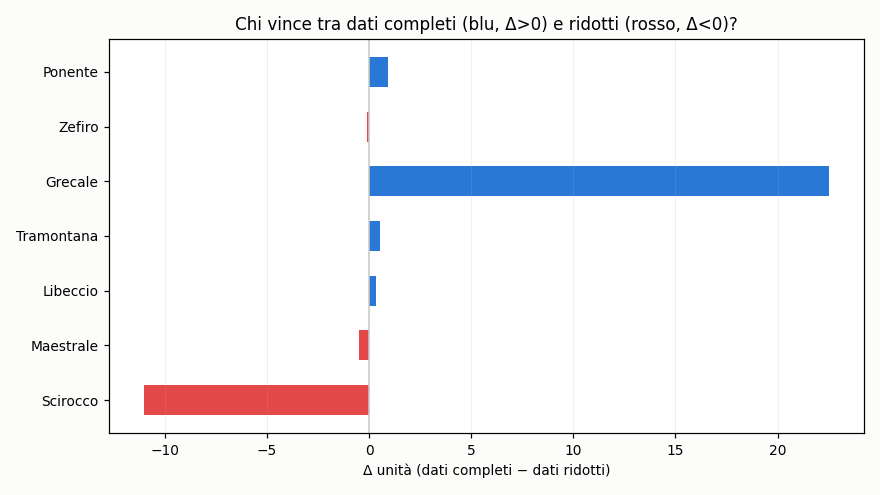
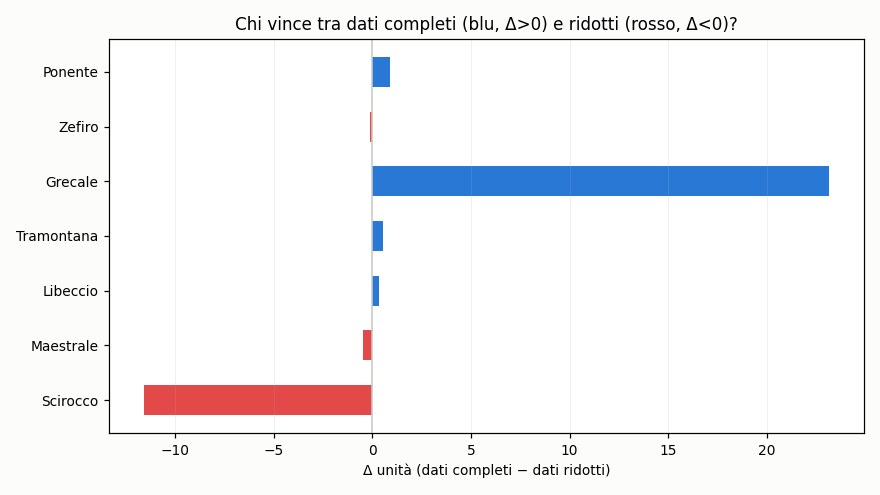
aggiornamento 2026-07-28 12:41 UTC

diff --git a/README.md b/README.md
@@ -37,9 +37,9 @@ scala in unità). Non indichiamo quale.
 
 ## Grafici
 
-![Coppie: dati completi vs ridotti](https://raw.githubusercontent.com/Kitem19/ippica-track-record/main/charts/equity_pairs.png?v=6c8a831d)
+![Coppie: dati completi vs ridotti](https://raw.githubusercontent.com/Kitem19/ippica-track-record/main/charts/equity_pairs.png?v=03c3ce81)
 
-![Delta per coppia](https://raw.githubusercontent.com/Kitem19/ippica-track-record/main/charts/coppie_delta.png?v=58f165ba)
+![Delta per coppia](https://raw.githubusercontent.com/Kitem19/ippica-track-record/main/charts/coppie_delta.png?v=db3c4497)
 
 ### Come leggere i grafici
 
@@ -56,11 +56,11 @@ scala in unità). Non indichiamo quale.
 
 _Poche giornate: numeri ancora rumorosi, si conclude a fine fase (31/7)._
 
-- **Scirocco**: dati ridotti avanti di 11,0u — qui gli extra non aiutano
+- **Scirocco**: dati ridotti avanti di 11,6u — qui gli extra non aiutano
 - **Maestrale**: in sostanziale pareggio — troppo presto per dire
 - **Libeccio**: in sostanziale pareggio — troppo presto per dire
 - **Tramontana**: in sostanziale pareggio — troppo presto per dire
-- **Grecale**: dati completi avanti di 22,5u
+- **Grecale**: dati completi avanti di 23,2u
 - **Zefiro**: in sostanziale pareggio — troppo presto per dire
 - **Ponente**: in sostanziale pareggio — troppo presto per dire
 
@@ -68,22 +68,22 @@ _Poche giornate: numeri ancora rumorosi, si conclude a fine fase (31/7)._
 
 | Sistema | Cassa (u) | P/L (u) | Selezioni | Escluse | Stato |
 |---|---|---|---|---|---|
-| Grecale | 22,3 | +2,3 | 328 | 4 | 🟢 |
-| Scirocco-B | 11,0 | -9,0 | 250 | 6 | ⏸ |
-| Maestrale-B | 0,0 | -20,0 | 100 | 262 | 🛑 |
-| Ponente | 0,0 | -20,0 | 213 | 43 | 🛑 |
+| Grecale | 22,9 | +2,9 | 329 | 4 | 🟢 |
+| Scirocco-B | 11,5 | -8,5 | 251 | 6 | 🟢 |
+| Maestrale-B | 0,0 | -20,0 | 100 | 263 | 🛑 |
+| Ponente | 0,0 | -20,0 | 213 | 44 | 🛑 |
 | Scirocco | 0,0 | -20,1 | 80 | 287 | 🛑 |
 | Grecale-B | 0,0 | -20,2 | 137 | 188 | 🛑 |
-| Tramontana | 0,0 | -20,3 | 45 | 328 | 🛑 |
+| Tramontana | 0,0 | -20,3 | 45 | 329 | 🛑 |
 | Zefiro-B | 0,0 | -20,5 | 143 | 88 | 🛑 |
-| Maestrale | 0,0 | -20,5 | 104 | 282 | 🛑 |
-| Zefiro | 0,0 | -20,6 | 268 | 17 | 🛑 |
-| Libeccio | 0,0 | -20,6 | 181 | 186 | 🛑 |
-| Tramontana-B | 0,0 | -20,8 | 324 | 35 | 🛑 |
-| Libeccio-B | 0,0 | -20,9 | 119 | 202 | 🛑 |
-| Ponente-B | 0,0 | -21,0 | 63 | 106 | 🛑 |
+| Maestrale | 0,0 | -20,5 | 104 | 283 | 🛑 |
+| Zefiro | 0,0 | -20,6 | 268 | 18 | 🛑 |
+| Libeccio | 0,0 | -20,6 | 181 | 187 | 🛑 |
+| Tramontana-B | 0,0 | -20,8 | 324 | 36 | 🛑 |
+| Libeccio-B | 0,0 | -20,9 | 119 | 203 | 🛑 |
+| Ponente-B | 0,0 | -21,0 | 63 | 107 | 🛑 |
 
-_Aggiornato: 28/07 14:36_
+_Aggiornato: 28/07 14:41_
 ---
 *Nessuna delle informazioni qui pubblicate costituisce consiglio di gioco.
 Il gioco può causare dipendenza — 18+.*
